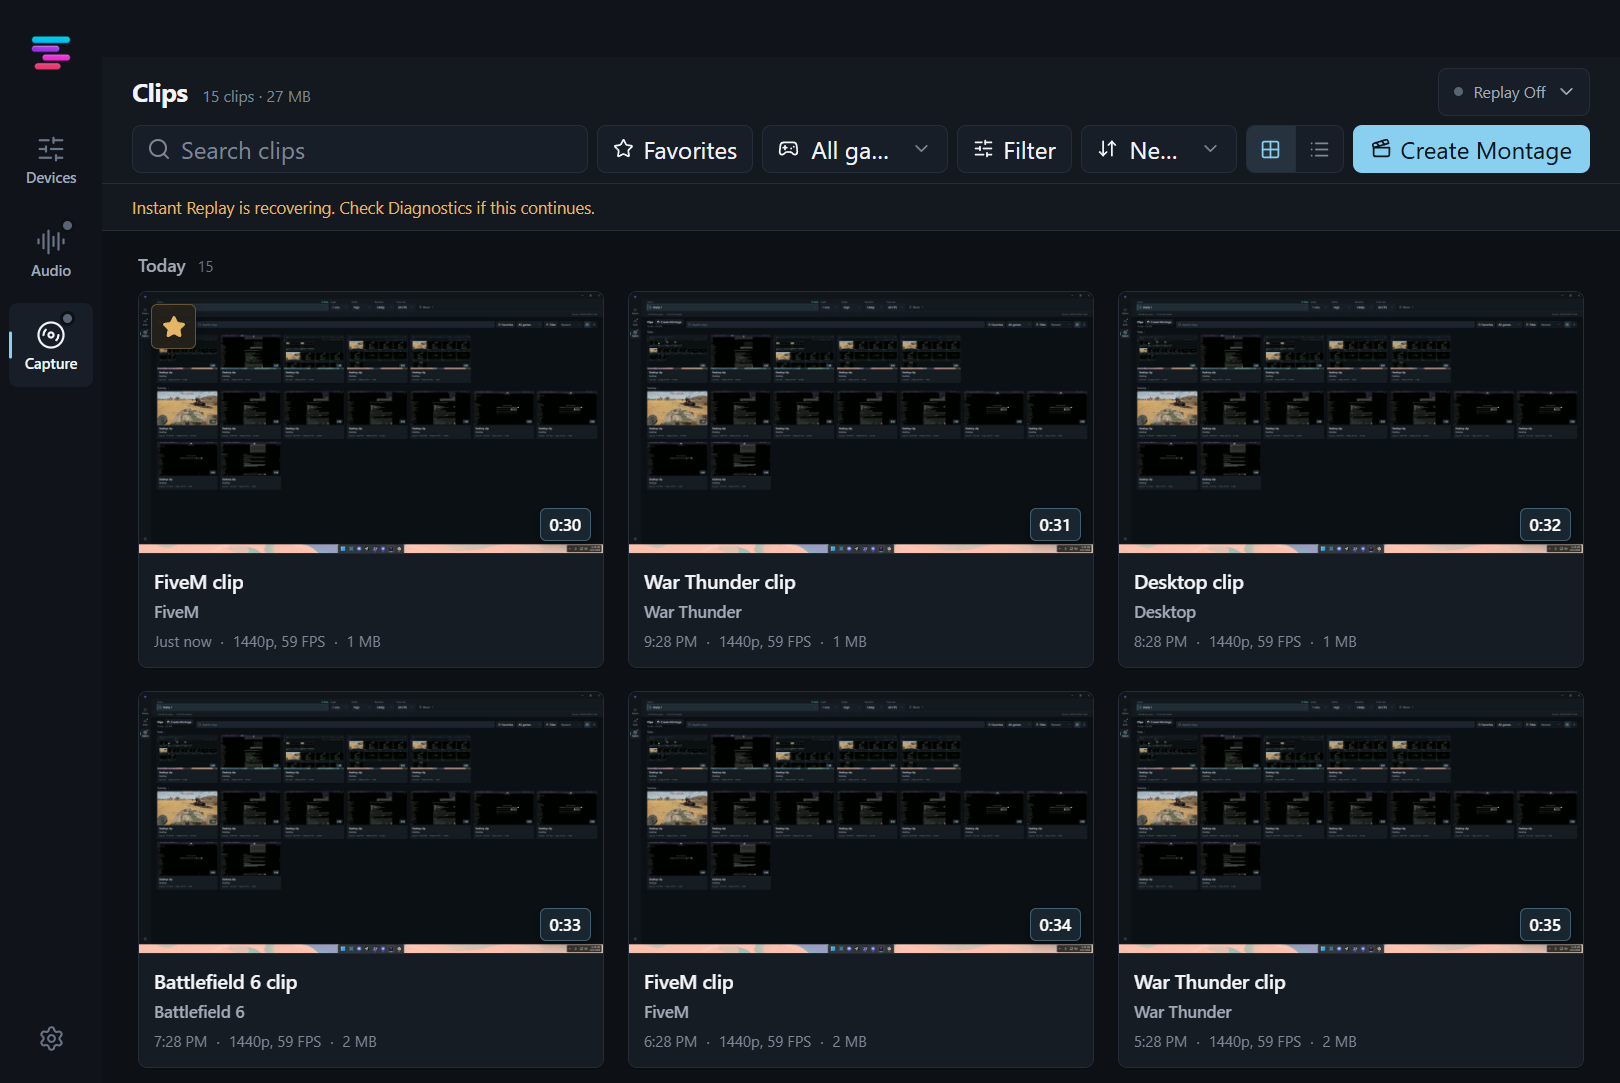
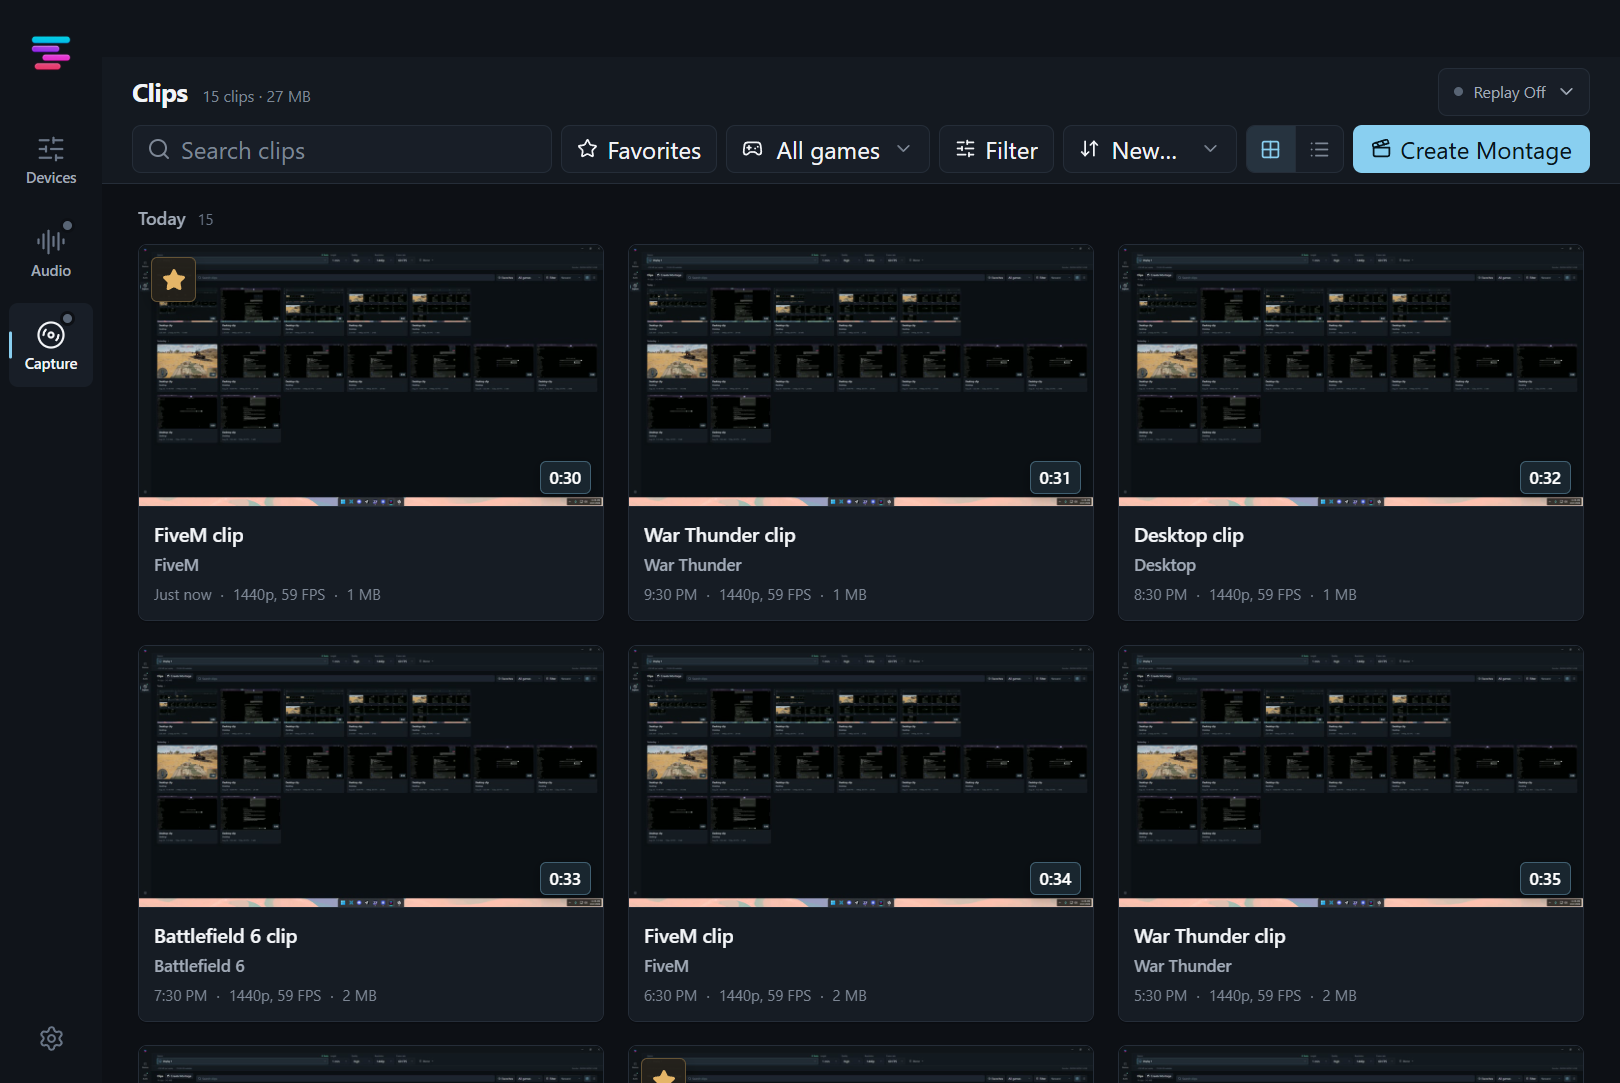
Add replay popover review and refine capture toolbar and notices
- Suppress Instant Replay runtime error/warning notices when capture is disabled
- Widen game and sort filter controls so the clip library fits at 1080x720
- Add --replay-popover mode to capture-scale-qa with new 1420x900 replay evidence

diff --git a/src/renderer/src/components/capture/CaptureHeader.tsx b/src/renderer/src/components/capture/CaptureHeader.tsx
@@ -474,8 +474,9 @@ function replaySummary(
 
 function captureNotice(snapshot: SystemSnapshot): { message: string; tone: 'danger' | 'warning' } | null {
   if (snapshot.capture.storage.criticalSpace) return { message: 'Storage is too low to save replays. Choose another clip folder.', tone: 'danger' };
-  if (snapshot.capture.runtime.error) return { message: "Instant Replay couldn't start. Restart it in Capture Settings, or check Diagnostics.", tone: 'danger' };
   if (snapshot.capture.storage.lowSpace) return { message: 'Storage is running low. Choose another clip folder soon.', tone: 'warning' };
+  if (!snapshot.capture.config.enabled) return null;
+  if (snapshot.capture.runtime.error) return { message: "Instant Replay couldn't start. Restart it in Capture Settings, or check Diagnostics.", tone: 'danger' };
   if (snapshot.capture.runtime.warning) return { message: 'Instant Replay is recovering. Check Diagnostics if this continues.', tone: 'warning' };
   return null;
 }

diff --git a/src/renderer/src/components/capture/ClipLibraryToolbar.tsx b/src/renderer/src/components/capture/ClipLibraryToolbar.tsx
@@ -52,7 +52,7 @@ export function ClipLibraryToolbar({ controls }: { controls: ClipLibraryControls
 
           <DateFilter value={controls.date} activeFilterCount={activeFilterCount} onChange={controls.onDateChange} />
 
-          <div className="capture-tool-control capture-tool-control--sort w-28 shrink-0">
+          <div className="capture-tool-control capture-tool-control--sort w-32 shrink-0">
             <Select value={controls.sort} onValueChange={controls.onSortChange}>
               <SelectTrigger aria-label="Sort clips" className="capture-sort-trigger h-8 text-[11px]"><ArrowDownUp className="capture-tool-icon size-3.5 shrink-0" aria-hidden="true" /><SelectValue /></SelectTrigger>
               <SelectContent>{sortOptions.map((option) => <SelectItem key={option.value} value={option.value}>{option.label}</SelectItem>)}</SelectContent>

diff --git a/src/renderer/src/globals.css b/src/renderer/src/globals.css
@@ -1407,11 +1407,11 @@ textarea:focus-visible {
   }
 
   .capture-tool-control--game {
-    width: 124px;
+    width: 136px;
   }
 
   .capture-tool-control--sort {
-    width: 104px;
+    width: 128px;
   }
 
   .capture-replay-summary {
